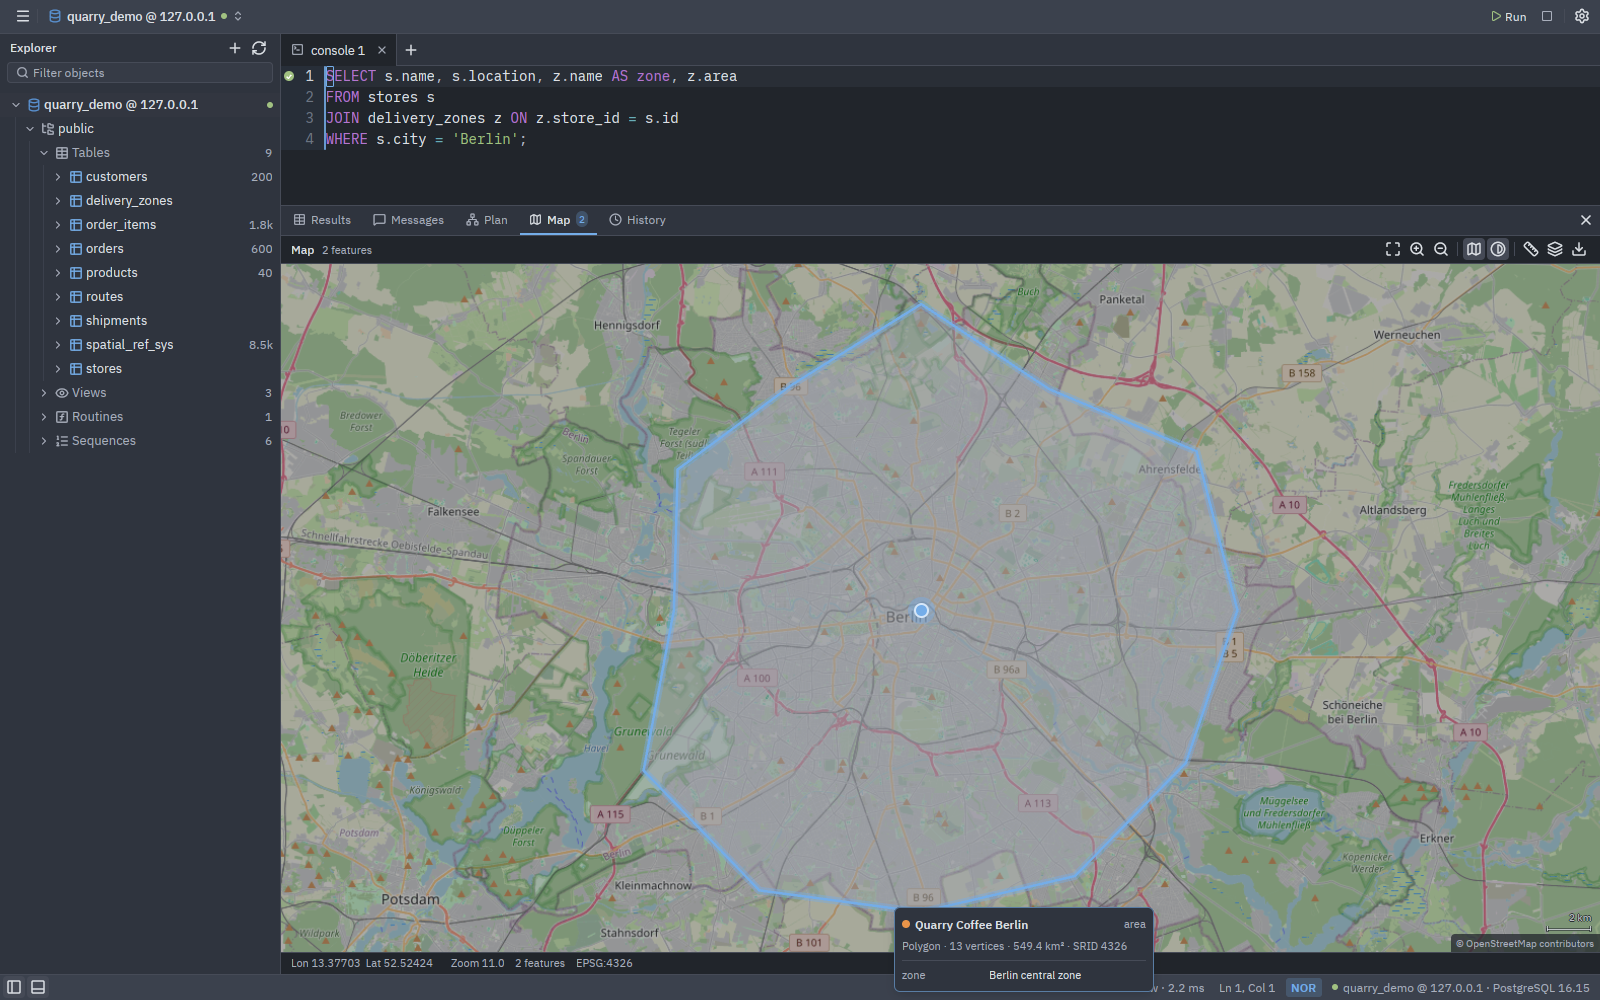
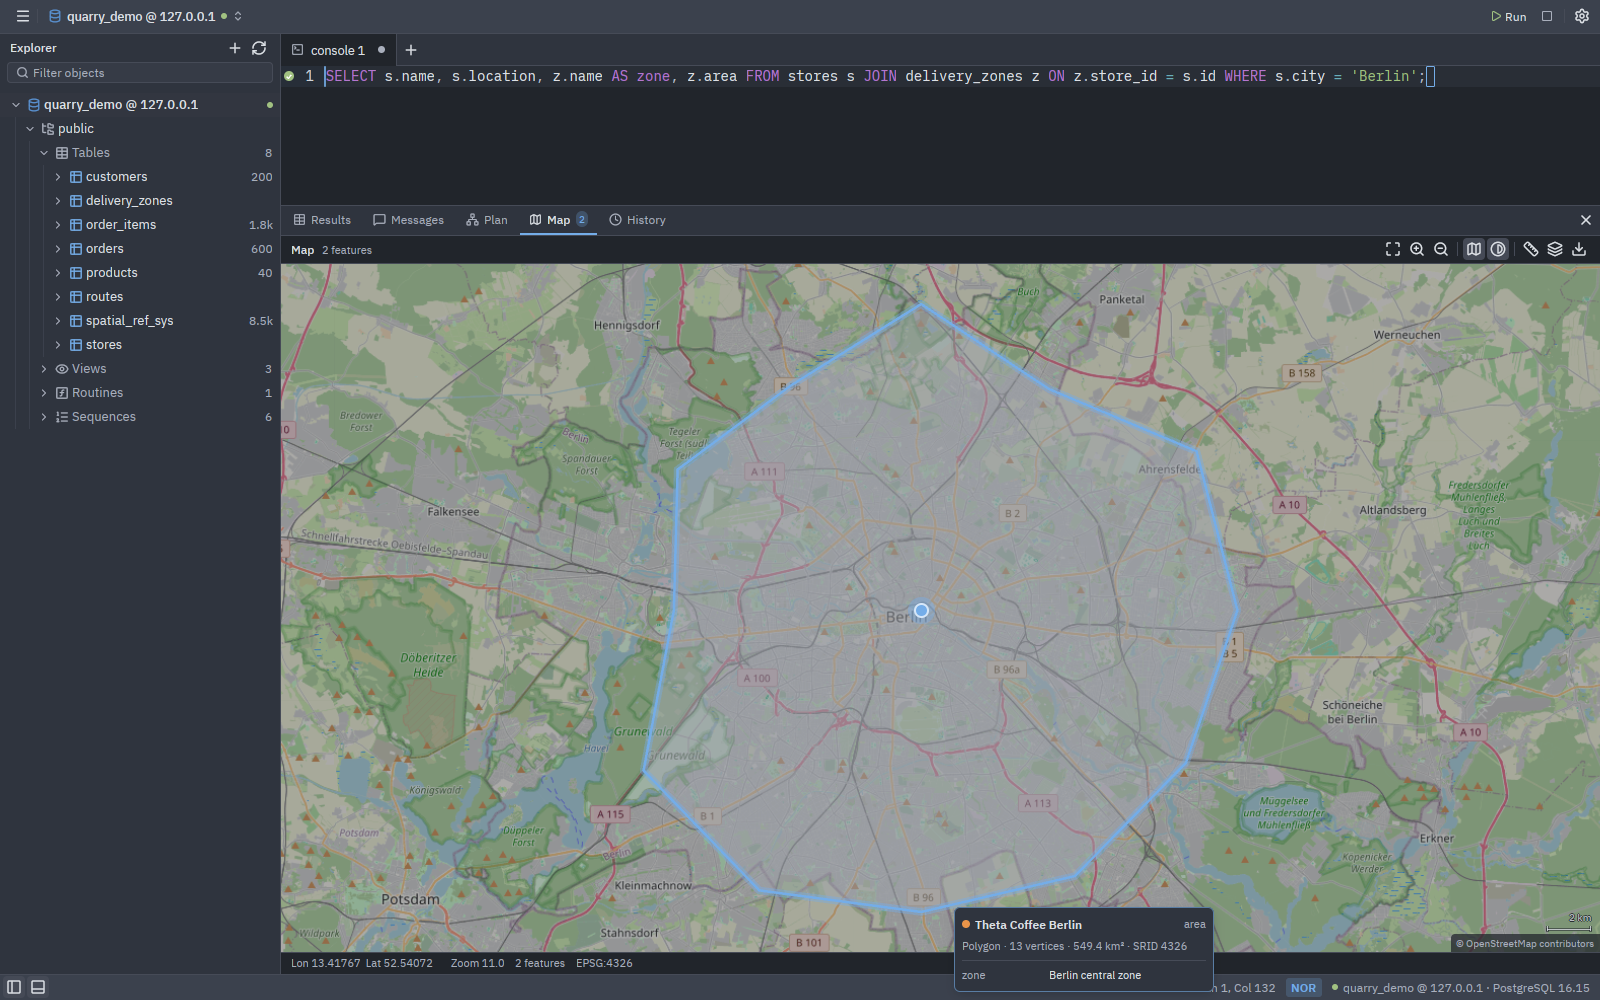
docs: re-shoot the screenshots that show the product name; note the legacy test database name
Claude-Session: https://claude.ai/code/session_015kp4FddwRcMZXhK1AXEPU2

diff --git a/README.md b/README.md
@@ -390,7 +390,8 @@ script/shot /tmp/shots/main.png -- --demo                                # headl
 ```
 
 Test databases: PostgreSQL 16 with PostGIS at `postgres://postgres:postgres@127.0.0.1:5432/quarry_demo`
-and MariaDB 10.11 at `mysql://quarry:quarry@127.0.0.1:3306/quarry_demo`; the CI workflow starts them as
+and MariaDB 10.11 at `mysql://quarry:quarry@127.0.0.1:3306/quarry_demo` (the name predates the rename to Theta and
+is kept so the existing databases keep working); the CI workflow starts them as
 service containers. [docs/DEVELOPMENT.md](docs/DEVELOPMENT.md) covers the details, including the
 screenshot harness, adding a database driver, adding a theme, and the CI and release process.
 [CONTRIBUTING.md](CONTRIBUTING.md) has the short version.

diff --git a/AGENTS.md b/AGENTS.md
@@ -42,6 +42,9 @@ Do not push, do not rebase, do not touch other agents' uncommitted files, never 
 
 ## Local test services (already running)
 
+The database, schema and MariaDB user are still called `quarry_demo` / `quarry` from before the rename to Theta:
+renaming them would mean recreating the live local databases, so treat it as a legacy test-database name.
+
 - PostgreSQL 16 + PostGIS: `postgres://postgres:postgres@127.0.0.1:5432/quarry_demo`
 - MariaDB 10.11: `mysql://quarry:quarry@127.0.0.1:3306/quarry_demo`
 
